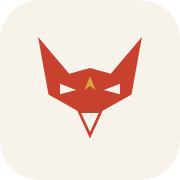
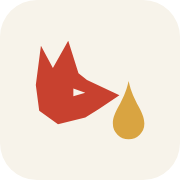
Promote the fox-and-houju mark to the primary brand mark (#40)
The front-facing fox-mark read too close to GitLab's at small sizes:
both are angular low-poly fox faces that taper downward, and the shu
vermilion sits within ~1.3 degrees of hue of GitLab's primary red-orange
(#C8412F at 7.1 deg vs #E24329 at 8.4 deg), aimed at the same developer
audience. The fox in profile with the houju shares none of that
composition.

The header/hero, favicon.ico (16/32/48) and apple-icon.png now use
fox-houju-mark; opengraph-image.png already did. icon.svg stays
byte-identical to the brand file, as CLAUDE.md requires.

The artwork sits off-centre in its 64-unit viewBox (content centre
29.35,29.65), which was invisible inline but left a visibly lopsided
favicon. The viewBox origin moves to -2.65,-2.35 to centre it; no path
data changes, and the mark keeps its former scale. Favicon margins go
from L=3/R=7 to L=5/R=5 at 48px.

fox-mark stays in the repo as an alternate.

Claude-Session: https://claude.ai/code/session_011b31aCoTMj1v1niwG1ckQG

Changed region(s): [[0.1944, 0.1944, 0.8056, 0.7778], [0.3333, 0.4444, 0.4722, 0.5278]]

diff --git a/src/components/fox-mark.tsx b/src/components/fox-mark.tsx
@@ -1,4 +1,4 @@
 export function FoxMark({ className }: { className: string }) {
   // eslint-disable-next-line @next/next/no-img-element -- vector mark; next/image optimization adds no value for SVG
-  return <img src="/brand/fox-mark.svg" alt="" className={className} />;
+  return <img src="/brand/fox-houju-mark.svg" alt="" className={className} />;
 }

diff --git a/CLAUDE.md b/CLAUDE.md
@@ -20,12 +20,20 @@ The brand assets are mirrored to Google Drive. **Whenever a brand asset in this
 repo is added, changed, or removed, apply the same change to the Drive copy in
 the same task** — don't leave the two out of sync, and don't wait to be asked.
 
+The primary mark is `fox-houju-mark` (the fox in profile with the 宝珠), used by
+the header/hero (`src/components/fox-mark.tsx`), the favicon/app icons and the
+OGP image. `fox-mark` (the symmetric front-facing fox) was the primary mark
+until it was retired for reading too close to GitLab's at small sizes — an
+angular low-poly fox face in near-identical red-orange, aimed at the same
+developer audience. It stays in the repo as an alternate; don't promote it back
+without revisiting that.
+
 - Destination: `10_仕事・プロジェクト (Work)` > `11_素材データ` > `OinariTech`
   (folder id `1X6F119wYDh7bc6wl1Q5Nne5J95TuhZwM`)
 - Mirrored files: everything in `public/brand/`, plus `src/app/favicon.ico`,
   `src/app/apple-icon.png`, and `src/app/opengraph-image.png`
-- `src/app/icon.svg` is byte-identical to `public/brand/fox-mark.svg`, so only
-  the latter is uploaded. Re-check this if either file changes.
+- `src/app/icon.svg` is byte-identical to `public/brand/fox-houju-mark.svg`, so
+  only the latter is uploaded. Re-check this if either file changes.
 - Updating an existing file means uploading the new content and trashing the old
   entry — `mcp__Google_Drive__update_file` only changes title/parent, not bytes.
 
